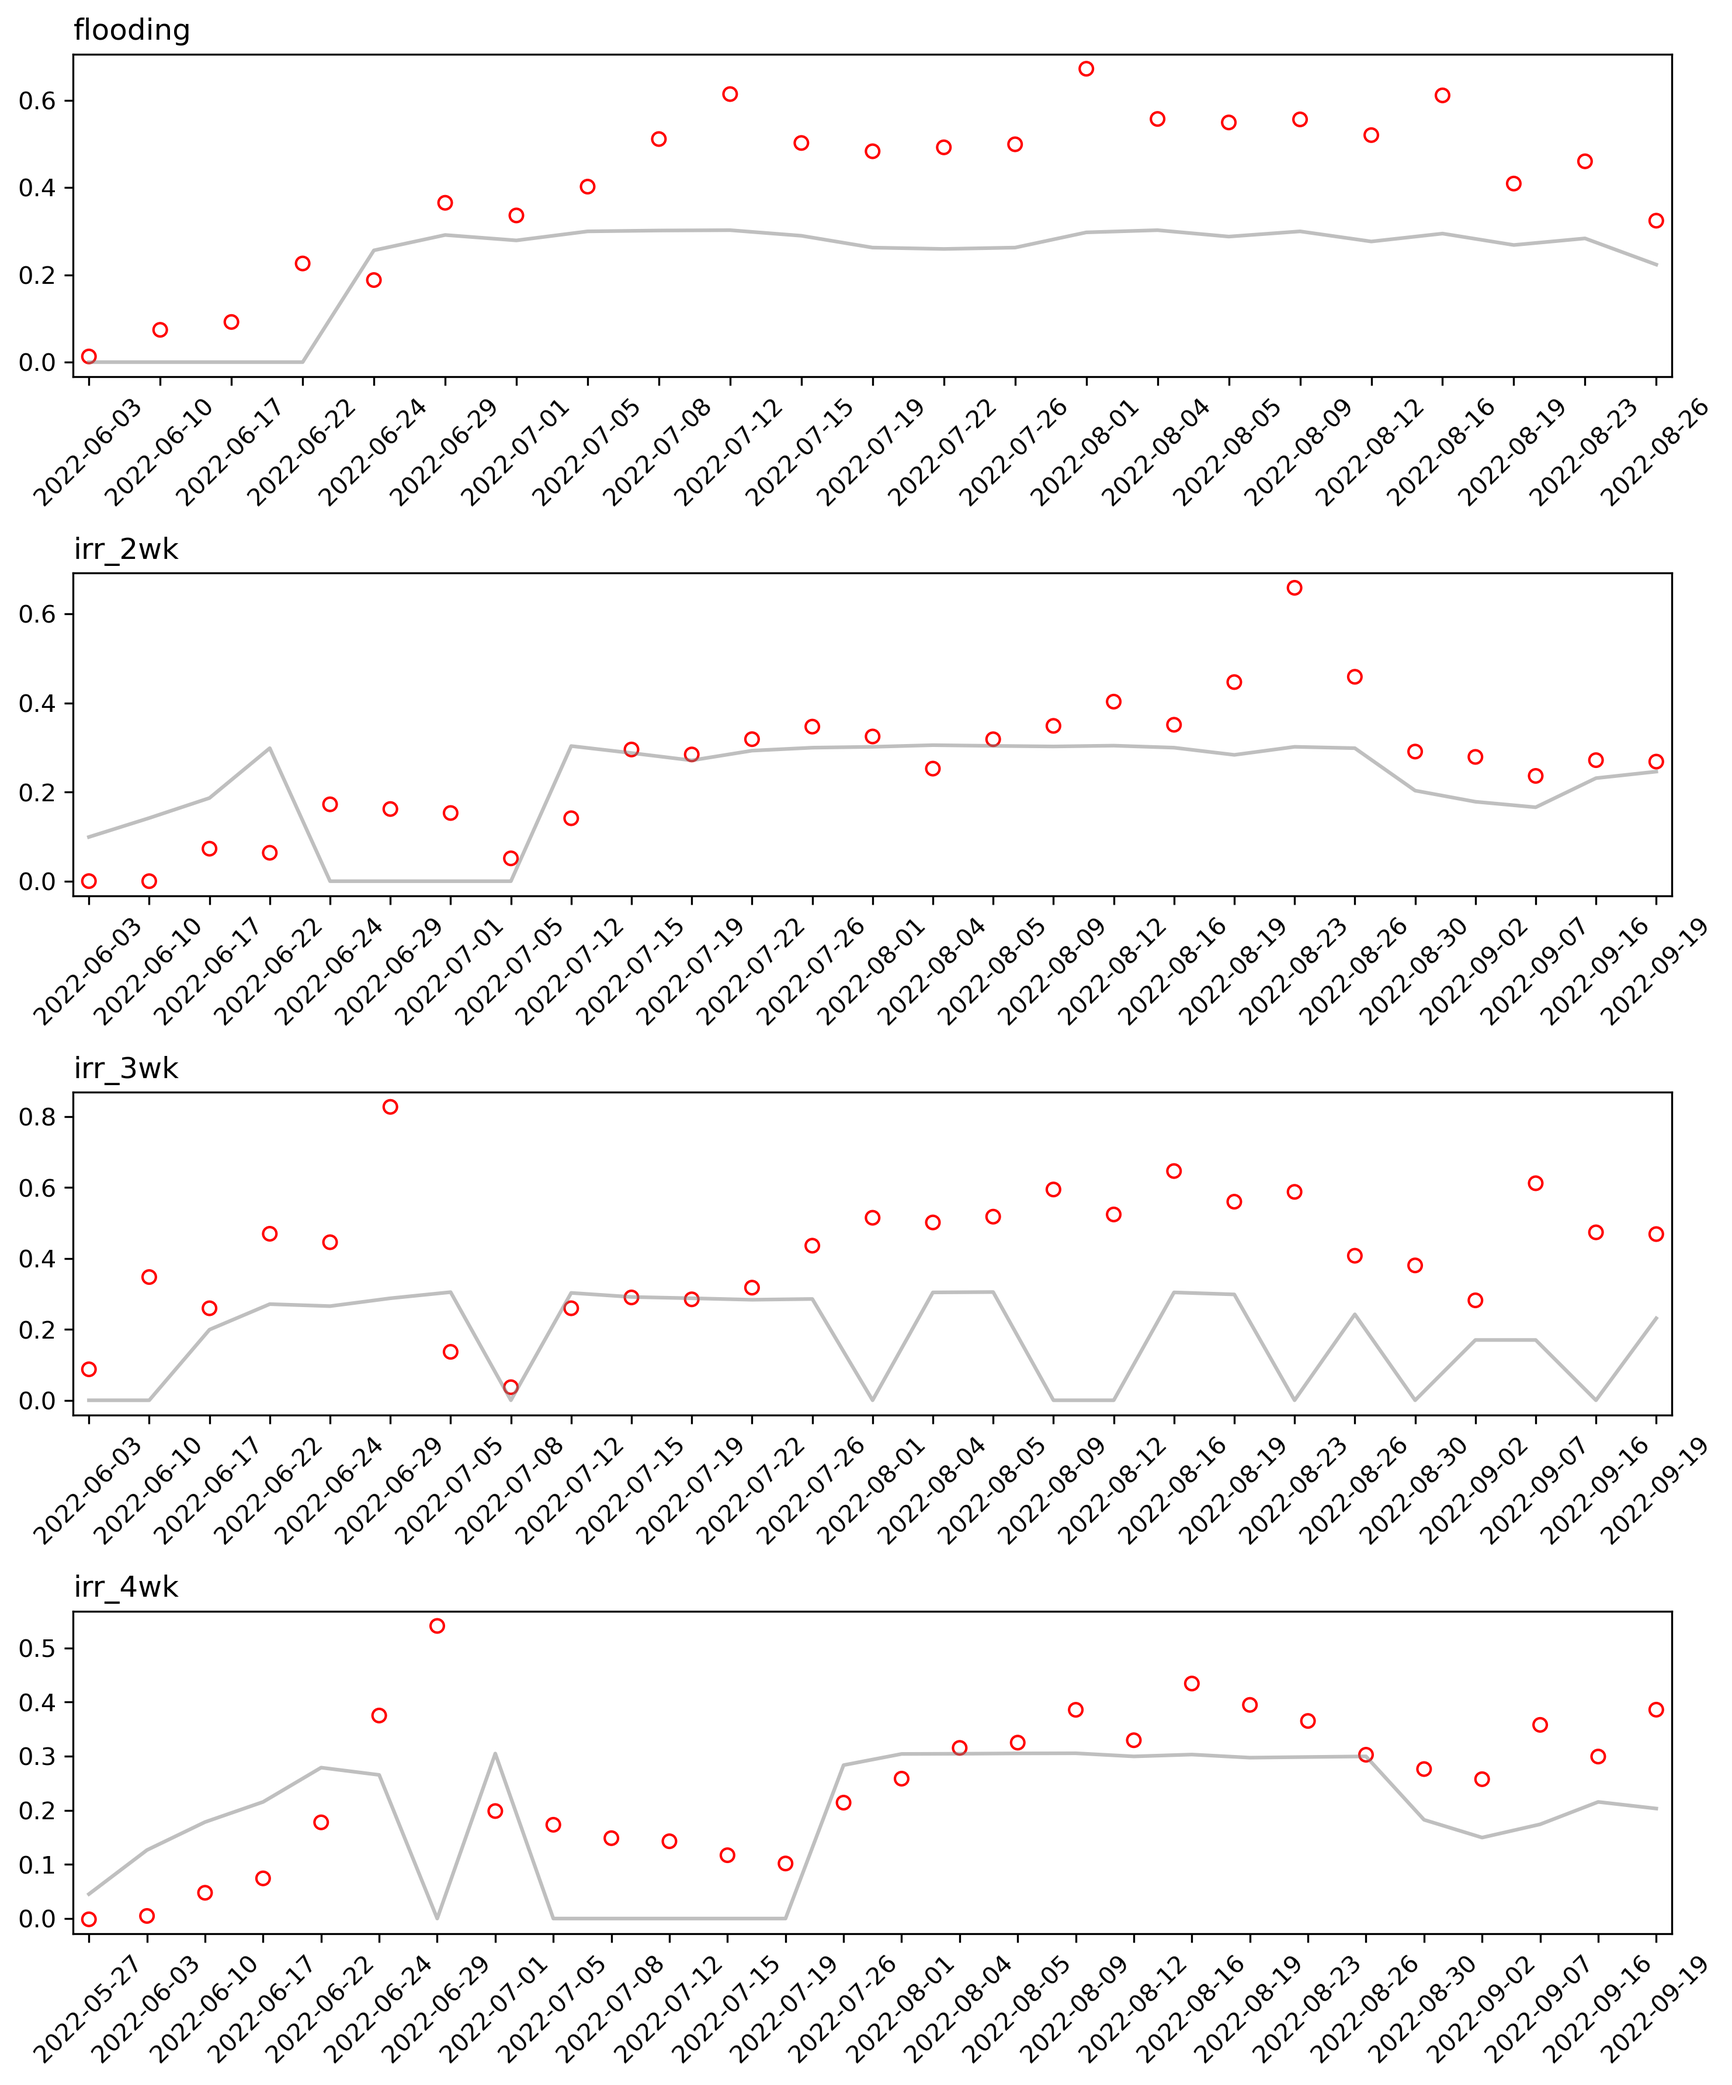
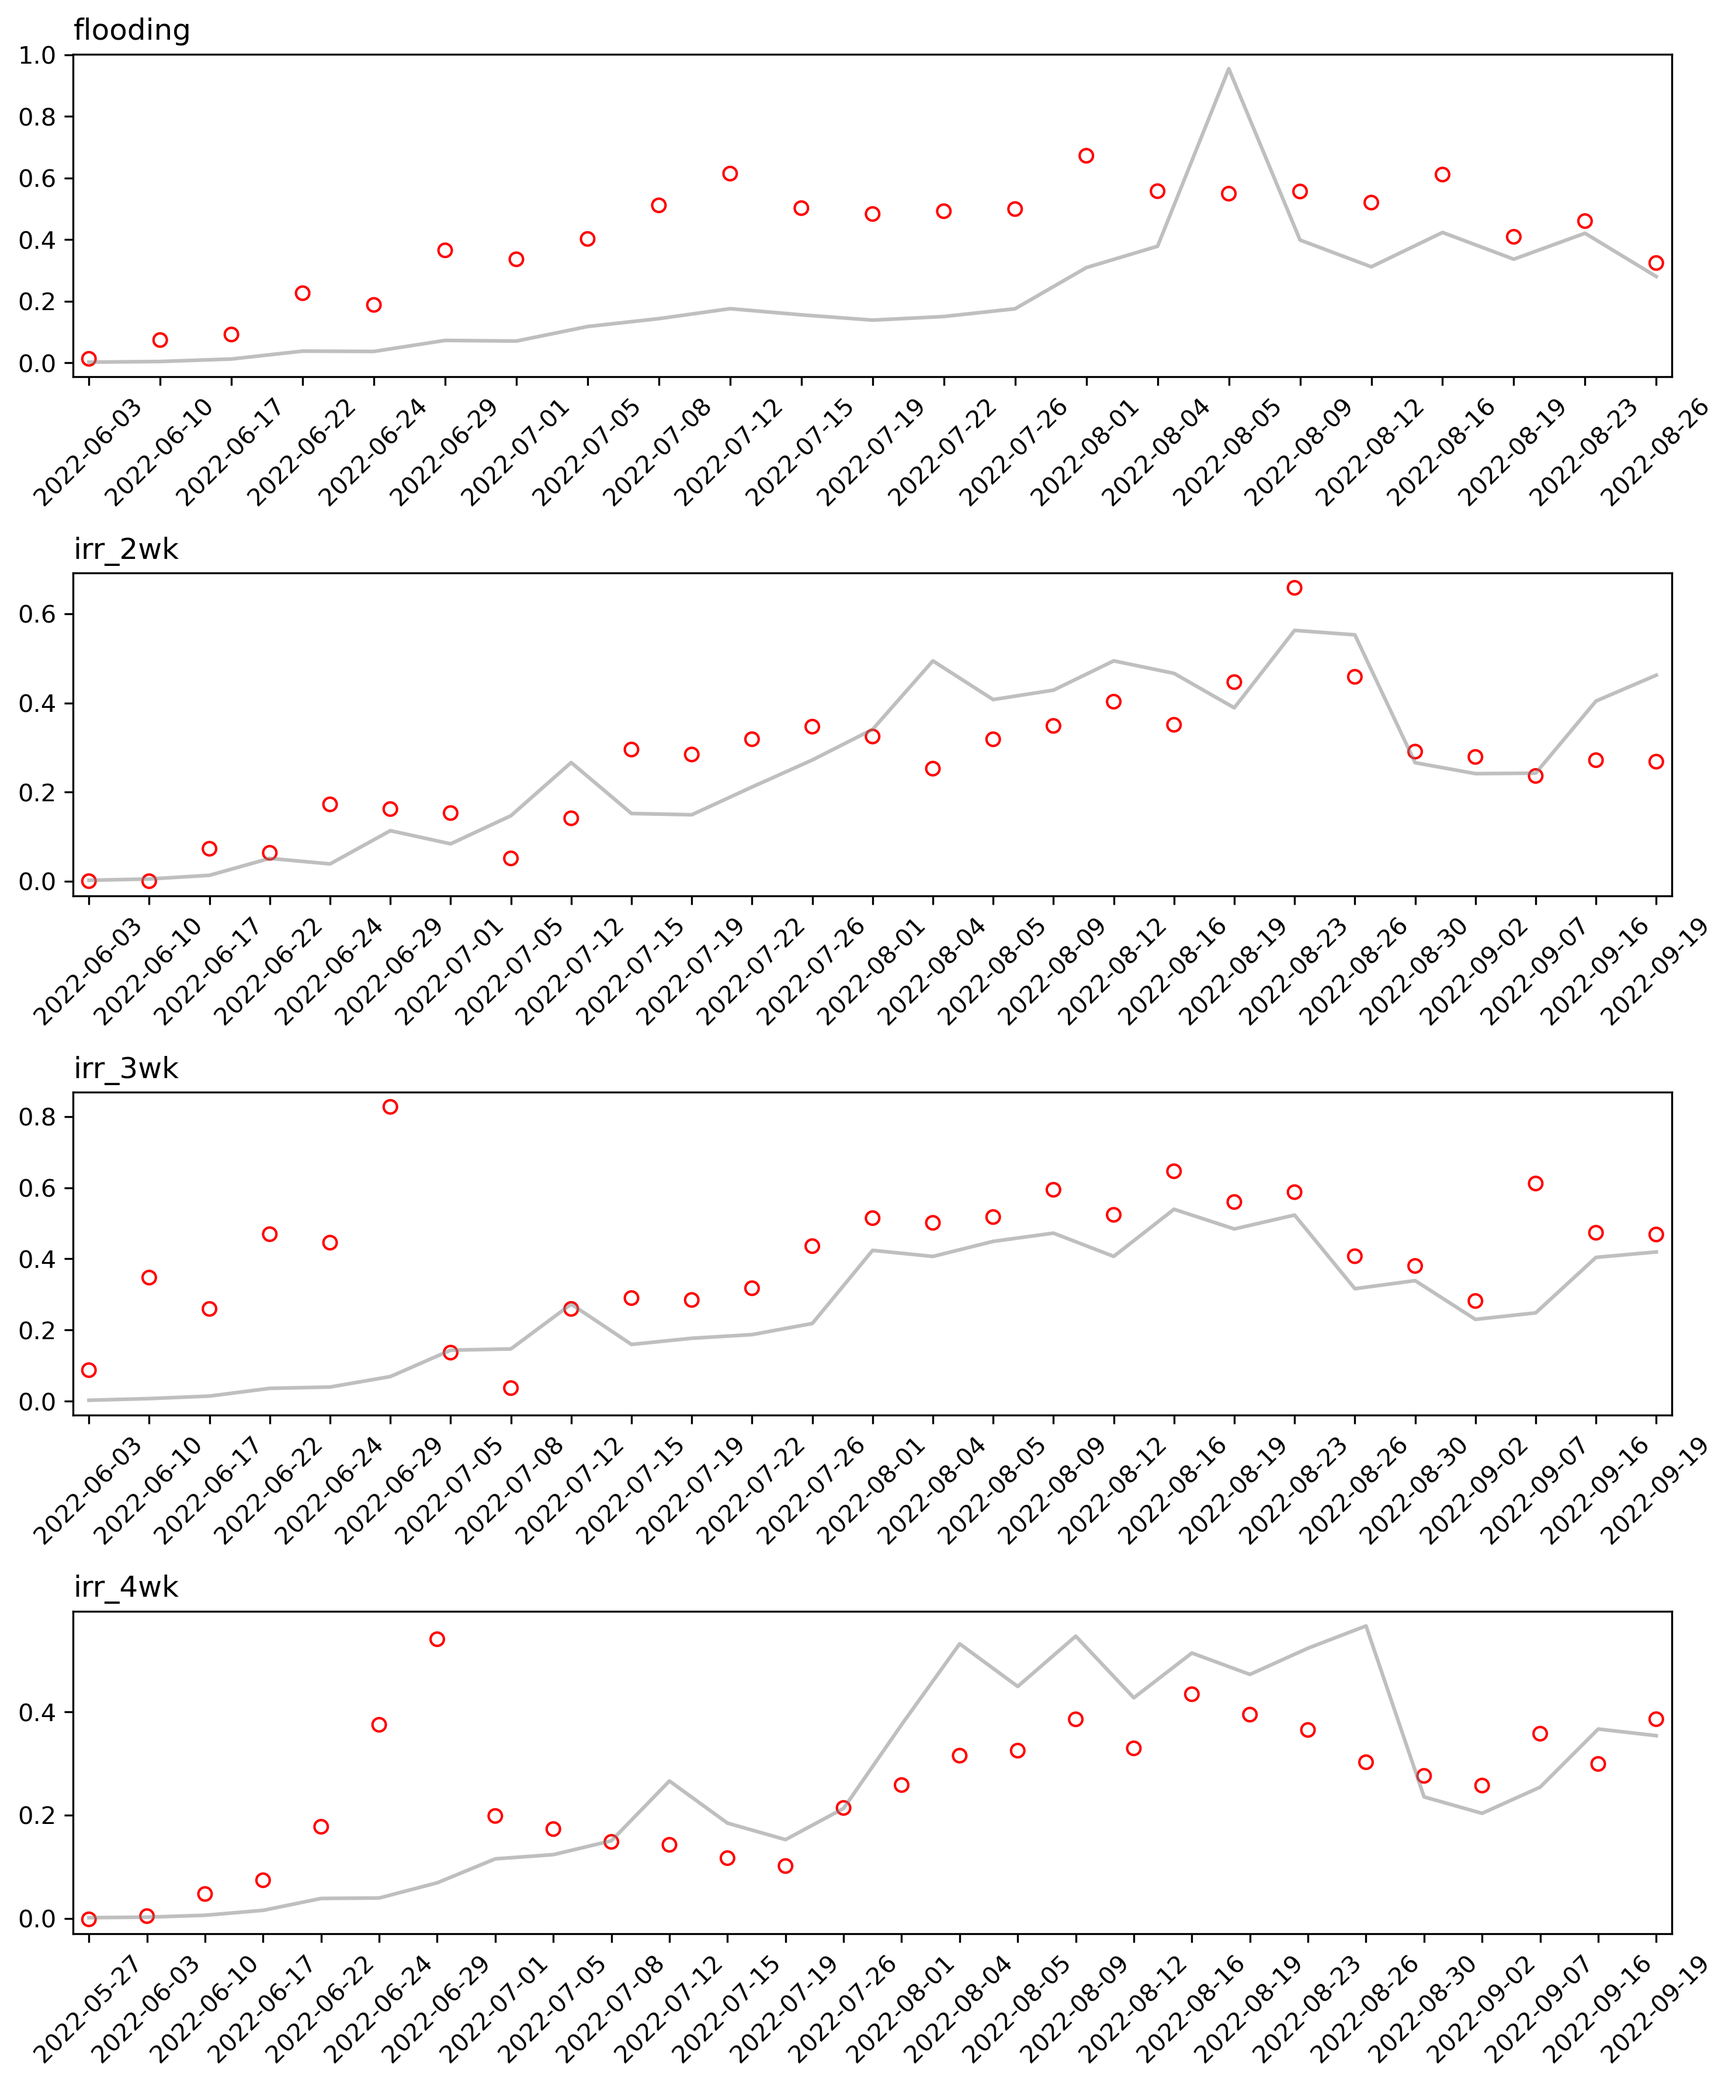
added pg_idx

diff --git a/ghgpy/runs.py b/ghgpy/runs.py
@@ -1,4 +1,4 @@
-from ghgpy.models import DCmodel, DNDCdaily
+from ghgpy.models import DCmodel, DNDCdaily, DNDC
 import os
 import pandas as pd
 
@@ -137,7 +137,7 @@ def run_dndc_daily(wd):
         getdf["ch4_obd"] = contdf.loc[:, "ch4_obd"]
         dff = pd.concat([dff, getdf], axis=0)
     dff.insert(0, "date", dff.index.date)
-    with open(os.path.join(wd, "ch4_multi_dndc.out"), "w") as f:
+    with open(os.path.join(wd, "ch4_multi_dndc_daily.out"), "w") as f:
         fmts = [SFMT, FFMT, FFMT, FFMT, FFMT, SFMT] 
         f.write("# created by ghgpy\n")
         f.write(dff.loc[:, [
@@ -150,10 +150,14 @@ def run_dndc_daily(wd):
     print("run complete ...")
 
 def run_dndc(wd):
-    m1 = DNDCdaily(wd)
-    ph = 6.72
-    root_biomass =1
-    c_sol = 1
+    m1 = DNDC(wd)
+    ava_c = 0.05 
+    pgi_idx = 0.5
+    poro = 0.01
+    stdate = "5/19/2022"
+    eddate = "10/5/2022"
+    # root_biomass =1
+    # c_sol = 1
     # read inputs
     indf = m1.read_inputs()
     indf.dropna(axis=0, inplace=True)
@@ -162,52 +166,40 @@ def run_dndc(wd):
 
     for cont in conts:
         contdf = indf.loc[indf["condition"]==cont]
-        c_pools = []
-        fehs = []
+        # c_pools = []
+        # fehs = []
         ch4prods = []
         ch4oxids = []
-        ch4es = []
+        ch4eps = []
+        ch4ebls = []
         for i in contdf.index:
-
-            
-
-
-
-            # print(contdf.loc[i])
-            # calculate c_pool
-            c_pool = m1.c_pool(c_sol, root_biomass)
-            c_pools.append(c_pool)
-            # calculate feh
-            feh = m1.feh(float(contdf.loc[i, "eh"]))
-            fehs.append(feh)
-            # calculate ftm
-            ftm = m1.ftm(float(contdf.loc[i, "tsoil"]))
-            # calculate fphm
-            fphm = m1.fphm(ph)
-            # calculate ch4prod
-            ch4prod = m1.ch4prod(c_pool, ftm, feh, fphm)
+            tempf01 = m1.ft_temp(float(contdf.loc[i, "tsoil"]))
+            ch4prod = m1.ch4prod(ava_c, tempf01) * 0.1
             ch4prods.append(ch4prod)
-            # calculate aere
-            aere = m1.aere(root_biomass)
-            # calcualte ch4oxid
-            ch4oxid = m1.ch4oxid(ch4prod, aere)
+            # NOTE: use ch4p as ch4 concentration?
+            ch4oxid = m1.ch4oxid(ch4prod, float(contdf.loc[i, "eh"]))
             ch4oxids.append(ch4oxid)
-            # calcualte emission
-            ch4e = m1.ch4e(ch4prod, ch4oxid)
-            ch4es.append(ch4e)
+            pgi_idx = m1.pgi(stdate, eddate, i)
+            aere = m1.aere(pgi_idx)
+            ch4ep = m1.ch4ep(ch4prod, aere)
+            ch4eps.append(ch4ep)
+            tempf02 = m1.ft_temp2(float(contdf.loc[i, "tsoil"]))
+            ch4ebl = m1.ch4ebl(ch4prod, poro, tempf02, aere)
+            ch4ebls.append(ch4ebl)
+
         getdf = pd.DataFrame(
-            {"ch4prods":ch4prods, "ch4oxids":ch4oxids, "ch4es":ch4es}, 
+            {"ch4prods":ch4prods, "ch4eps":ch4eps, "ch4ebls":ch4ebls}, 
             index=contdf.index)
-        # getdf["ch4e_tot"] = getdf["ch4eps"] + getdf["ch4ebls"]
+        getdf["ch4e_tot"] = getdf["ch4eps"] + getdf["ch4ebls"]
         getdf['cont'] = cont
         getdf["ch4_obd"] = contdf.loc[:, "ch4_obd"]
         dff = pd.concat([dff, getdf], axis=0)
     dff.insert(0, "date", dff.index.date)
     with open(os.path.join(wd, "ch4_multi_dndc.out"), "w") as f:
-        fmts = [SFMT, FFMT, FFMT, FFMT, FFMT, SFMT] 
+        fmts = [SFMT, FFMT, FFMT, FFMT, FFMT, FFMT, SFMT]
         f.write("# created by ghgpy\n")
         f.write(dff.loc[:, [
-            "date", "ch4_obd", "ch4prods", "ch4oxids", "ch4es", "cont"]].to_string(
+            "date", "ch4_obd", "ch4prods", "ch4eps", "ch4ebls", "ch4e_tot", "cont"]].to_string(
                                                         col_space=0,
                                                         formatters=fmts,
                                                         index=False,

diff --git a/ghgpy/models.py b/ghgpy/models.py
@@ -328,7 +328,9 @@ class MERES(object):
         the methanotrophic bacteria (see equation 2) in 
         a soil layer is given by the Michaelis-Menten equation
         .. math:: 
+
             p=f(x)
+
         :param pch4prod: potential CH4 production
         :type pch4prod: float, mol Ceq m-3
         :param ch4conc: ch4 concentration
@@ -486,7 +488,23 @@ class DNDC(object):
         aere_ = a * pgi**5 + b * pgi**4 + c * pgi**3 + d * pgi**2 + e * pgi + f
         return aere_
     
-    def pgi(self, dsp, sds):
+    def pgi(self, stdate, eddate, curdate):
+        """plant growth index
+
+        :param stdate: start date
+        :type stdate: str, dateformat
+        :param dsp: days since planting
+        :type dsp: int
+        :param sds: season days
+        :type sds: int
+        :return: plant growth index
+        :rtype: float
+        """
+        stdate =  pd.to_datetime(stdate)
+        eddate = pd.to_datetime(eddate)
+        dsp = abs((curdate - stdate).days)
+        sds = abs((eddate - stdate).days) 
+
         pgi_ = dsp / sds
         return pgi_
     
@@ -537,7 +555,18 @@ class DNDC(object):
     def eh(self, e0, t_soil, num_elect):
         eh_ = e0 + (self.parms.rconst * t_soil / (num_elect * self.parms.fconst))
         return eh_
+
+    def read_inputs(self):
+        input_df = pd.read_csv(
+            os.path.join(
+                self.model_dir, "input_ghg.csv"), na_values=[-9999, ""],
+                index_col=0, parse_dates=True)
+        return input_df
     
+
+
+
+
 class DNDCdaily(object):
     def __init__(self, model_dir):
         self.model_dir =  model_dir

diff --git a/ghgpy/main.py b/ghgpy/main.py
@@ -16,15 +16,22 @@ from ghgpy.utils import PostPr
 import pandas as pd
 import os
 from ghgpy.analyzer import plot_oom, plot_tseries_ch4
-from ghgpy.runs import run_dc_multi, run_dndc_daily
+from ghgpy.runs import run_dc_multi, run_dndc_daily, run_dndc
 
 
 
-def run_dndc(wd):
+def run_dndc_daily(wd):
     run_dndc_daily(wd)
     so_df = PostPr(wd).get_ch4_so_df(outfnam="ch4_multi_dndc.out")
     # viz
     plot_tseries_ch4(so_df, simnam="ch4es", height=3, dot=False)
+
+def run_dndc_model(wd):
+    run_dndc(wd)
+    so_df = PostPr(wd).get_ch4_so_df(outfnam="ch4_multi_dndc.out")
+    # viz
+    plot_tseries_ch4(so_df, simnam="ch4e_tot", height=3, dot=False)
+
 
 
 def run_dc(wd):
@@ -52,5 +59,5 @@ def run_md_viz(wd):
 
 if __name__ == "__main__":
     wd = "D:\\Projects\\Tools\\ghgpy\\models"
-    run_dc(wd)
+    run_dndc_model(wd)
 
